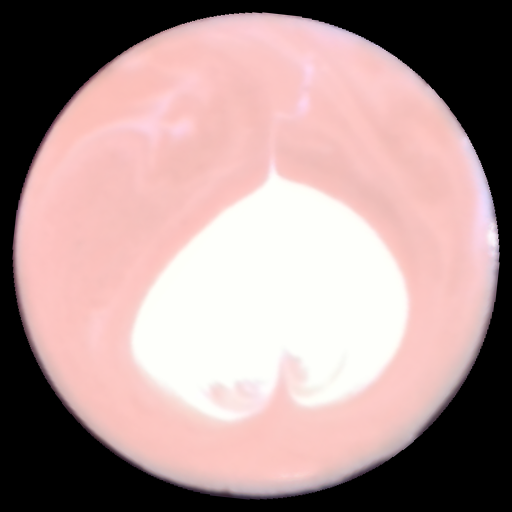
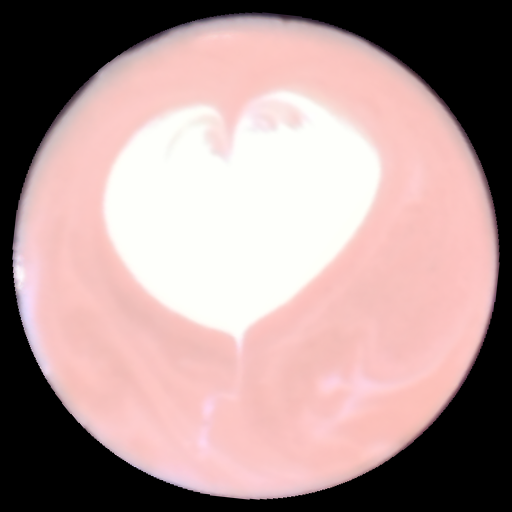
Barista view: rotate by a further 180 deg (pitcher side at the top)
Claude-Session: https://claude.ai/code/session_019DebF9UcsYAMq4SUBADtor

diff --git a/latte_imex/rig/barista_view.py b/latte_imex/rig/barista_view.py
@@ -1,6 +1,6 @@
 """Display orientation 'as the barista sees it': rotate disc-coordinate images so that the pitcher body (barista's
 side) is at the bottom. Direction = mean horizontal vector from the liquid-disc centre to the pitcher axis point
-(pitcher-frame origin) during the pattern phase, in disc/image coordinates (col = board x, row = board y).
+(pitcher-frame origin) during the pattern phase; the pitcher side is put at the TOP, in disc/image coordinates (col = board x, row = board y).
 Writes view_rotation.json {pattern: angle_deg (cv2.getRotationMatrix2D convention)} and *_barista.png images."""
 import json, os, sys
 import numpy as np, cv2
@@ -17,7 +17,7 @@ for p in ["heart", "push_heart", "leaf", "swan", "tulip"]:
     a_img = np.degrees(np.arctan2(v[1], v[0]))    # angle of v in image coords (x right, y down)
     # rotate so v points down (+90 deg in image coords); cv2 angle is counter-clockwise for positive values in
     # standard display, i.e. it rotates image-coordinate vectors by -angle
-    ang[p] = float(a_img - 90.0)
+    ang[p] = float(a_img + 90.0)          # pitcher side at the top (barista behind the cup, facing the viewer)
     print(p, "pitcher direction (img deg)", round(a_img, 1), "rotate", round(ang[p], 1))
 json.dump(ang, open(f"{REPO}/targets/view_rotation.json", "w"), indent=1)
 def rot(img, a):
